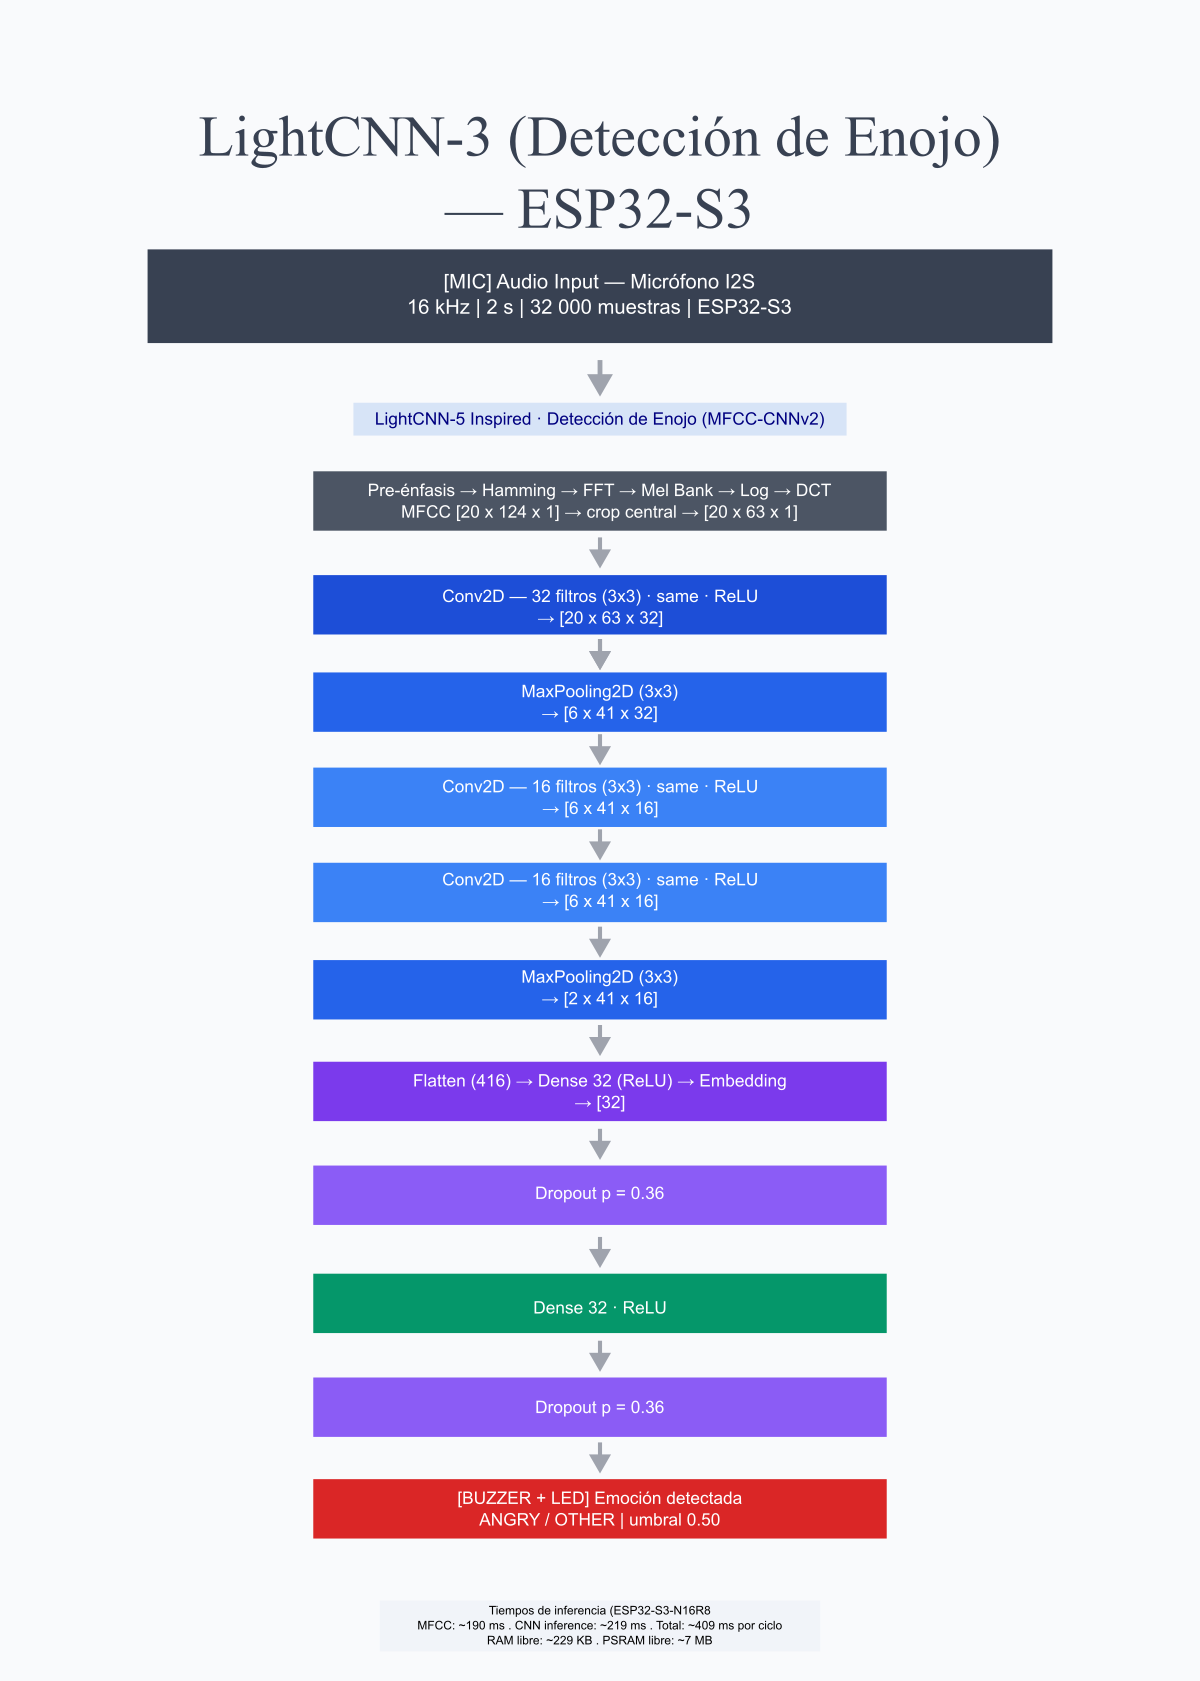
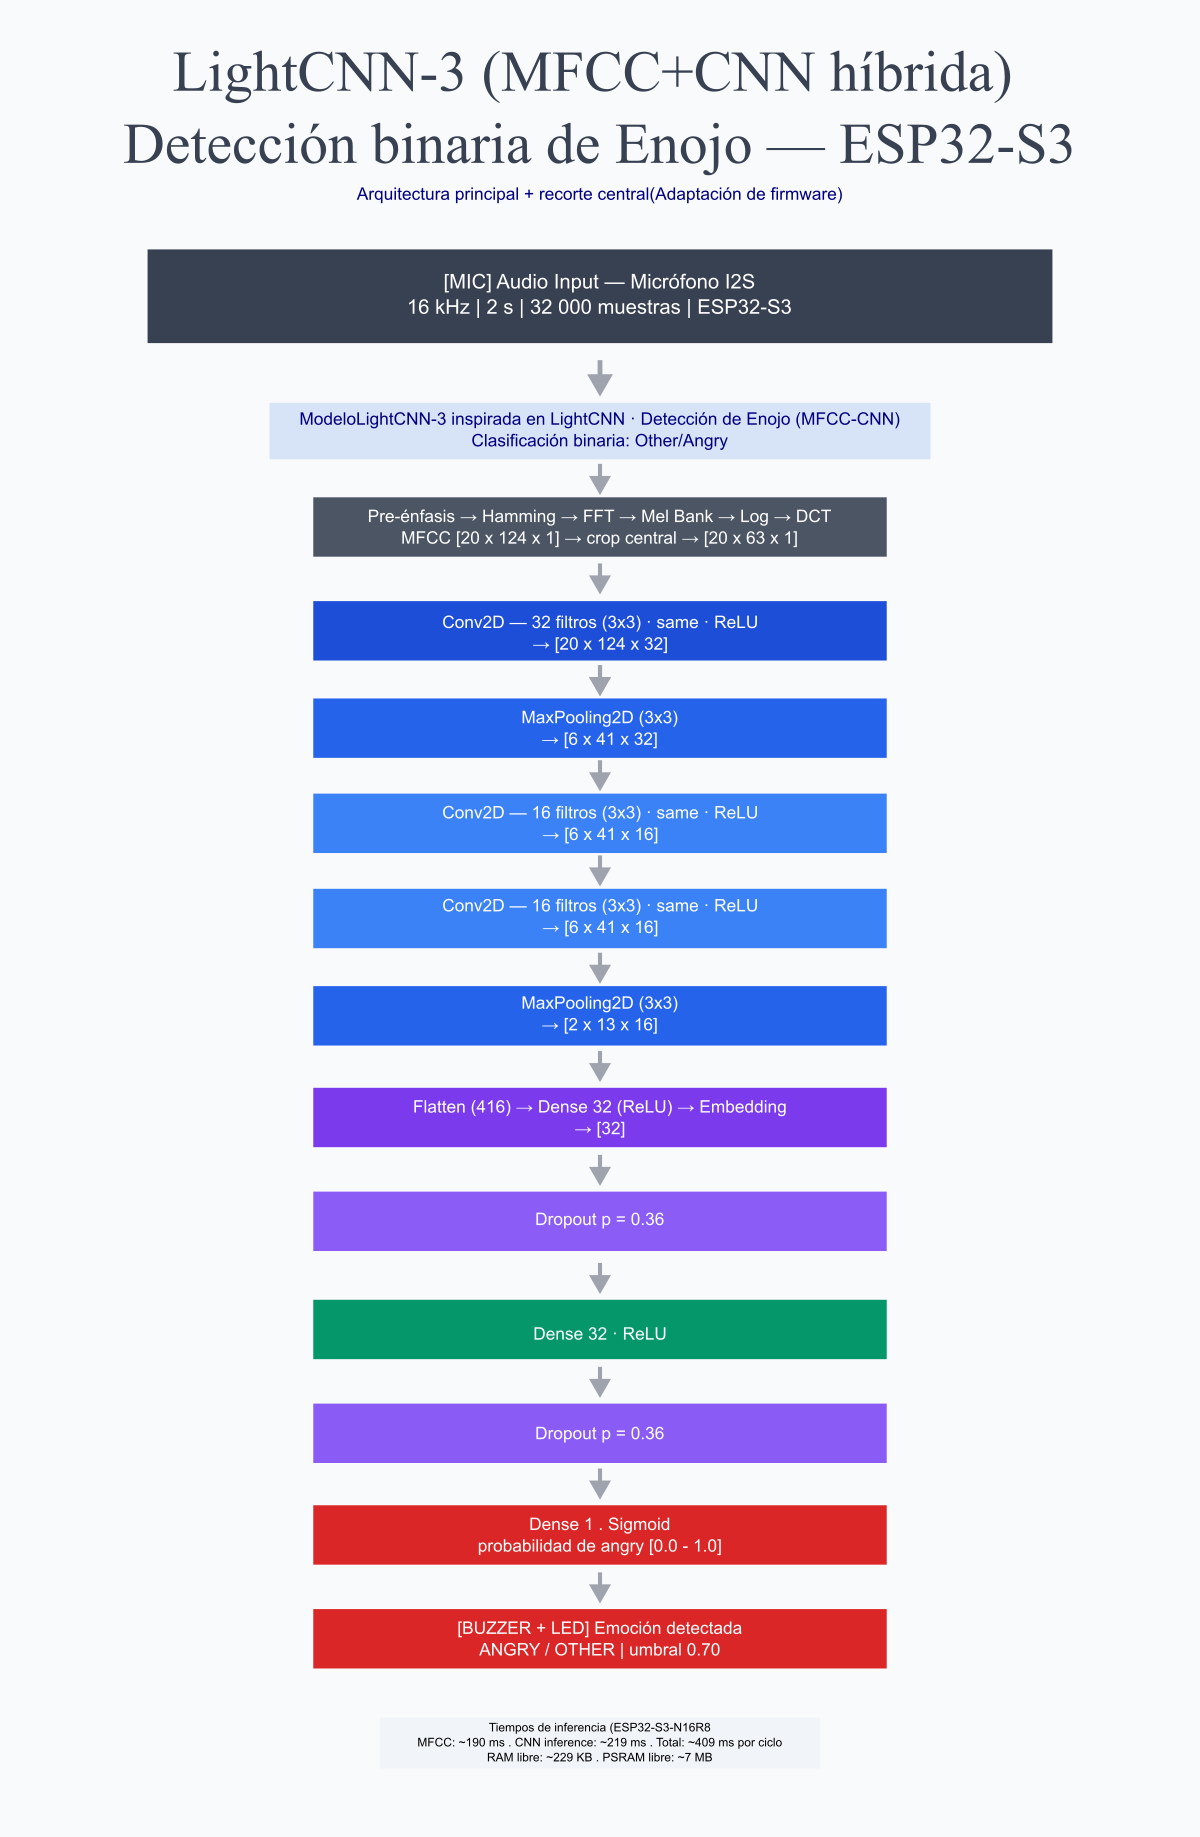
Nuevo pipeline3

Changed region(s): [[0.0925, 0.0309, 0.8942, 0.9899]]

diff --git a/PIPELINE_V2_ANGRY_VOICE_RECOGNITION.md b/PIPELINE_V2_ANGRY_VOICE_RECOGNITION.md
@@ -262,7 +262,7 @@ Pero la arquitectura real implementada es mas pequena que LightCNN-9: tiene **3 
 
 El siguiente diagrama resume la arquitectura principal del sistema y muestra de forma separada el recorte central aplicado en el firmware:
 
-![Diagrama de arquitectura MFCC + CNN ligera hibrida para ESP32-S3-N16R8](DiagramaCNN_final_crop_visible_sin_sobreponer.png)
+![Diagrama de arquitectura MFCC + CNN ligera hibrida para ESP32-S3-N16R8](DiagramaCNN.png)
 
 Nota: la arquitectura base documentada y observada en el modelo entrenado usa entrada `20 x 124 x 1`. El recorte a `63 frames` corresponde a una adaptacion del firmware para concentrar la region central de la matriz MFCC.
 

diff --git a/README.md b/README.md
@@ -12,7 +12,7 @@ Other = 0
 Crear una solucion embebida implica trabajar con limites de memoria, computo y latencia. Por eso el sistema no usa una red neuronal grande sobre audio crudo. En su lugar, transforma la senal de voz a **MFCC** y ejecuta una **CNN compacta** directamente en el microcontrolador.
 
 <p align="center">
-<img src="./DiagramaCNN_final_crop_visible_sin_sobreponer.png" alt="MFCC and lightweight CNN architecture on ESP32-S3-N16R8" width="560px">
+<img src="./DiagramaCNN.png" alt="MFCC and lightweight CNN architecture on ESP32-S3-N16R8" width="560px">
 </p>
 
 ## Overview